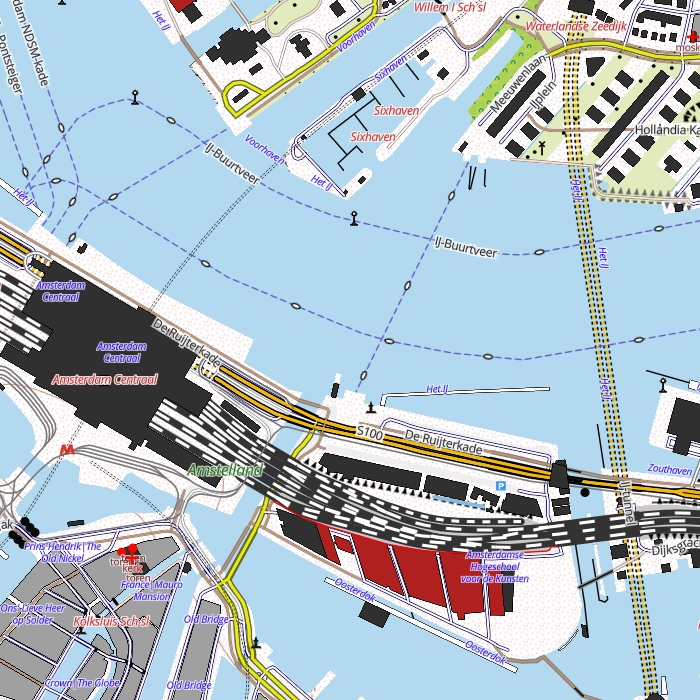
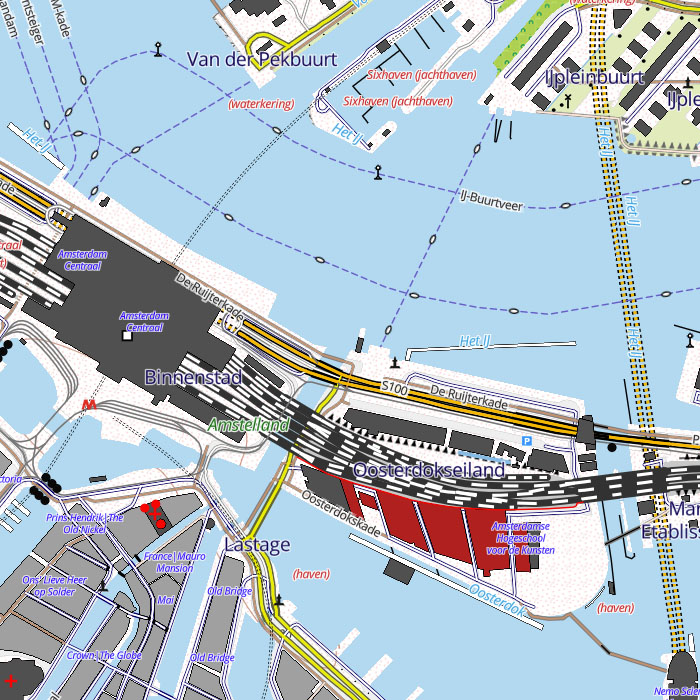
Documentation update

diff --git a/ThePdokStylingProject.md b/ThePdokStylingProject.md
@@ -106,14 +106,13 @@ As described in the [readme](readme.md), we use various PDOK BRT TopNL maps at v
 **Terschelling, zoomlevel 15**
 
 ![](images/example02.jpg)\
-
 **Vinkeveense plassen, zoomlevel 16**
 
 ![](images/example03.jpg)\
 **Amsterdam CS, zoomlevel 15**
 
 ![](images/example04.jpg)\
-**Amsterdam, zoomlevel 12**
+**Amsterdam, zoomlevel 11**
 
 ![](images/example05.jpg)\
 **Mid NL, zoomlevel 10**
@@ -122,7 +121,7 @@ As described in the [readme](readme.md), we use various PDOK BRT TopNL maps at v
 **Oostersluis Groningen, zoomlevel 16**
 
 ![](images/example07.jpg)\
-**Sint Pietersberg Maastricht, zoomlevel 15.7**
+**Sint Pietersberg Maastricht, zoomlevel 16**
 
 ![](images/example08.jpg)\
 **De Peel, unused airport, zoomlevel 14**
@@ -152,7 +151,8 @@ As described in the [readme](readme.md), we use various PDOK BRT TopNL maps at v
 * Building names are small and blue
 * When zooming in to zoomlevel 15, ```functioneel_gebied``` is shown in red, together with the type in braces, like 'Antillenstraat (bedrijventerrein)'. If no name is available, only the type is shown in braces.
 
-![](images/LegendAdendum.png)
+![](images/LegendAdendum.png)\
+**Differences and extras**
 
 ### Deviations
 * We don't have roads with separate lanes on higher scales ('gescheiden rijbanen'). Zooming in to scale 1:10.000 shows lanes seperately.
